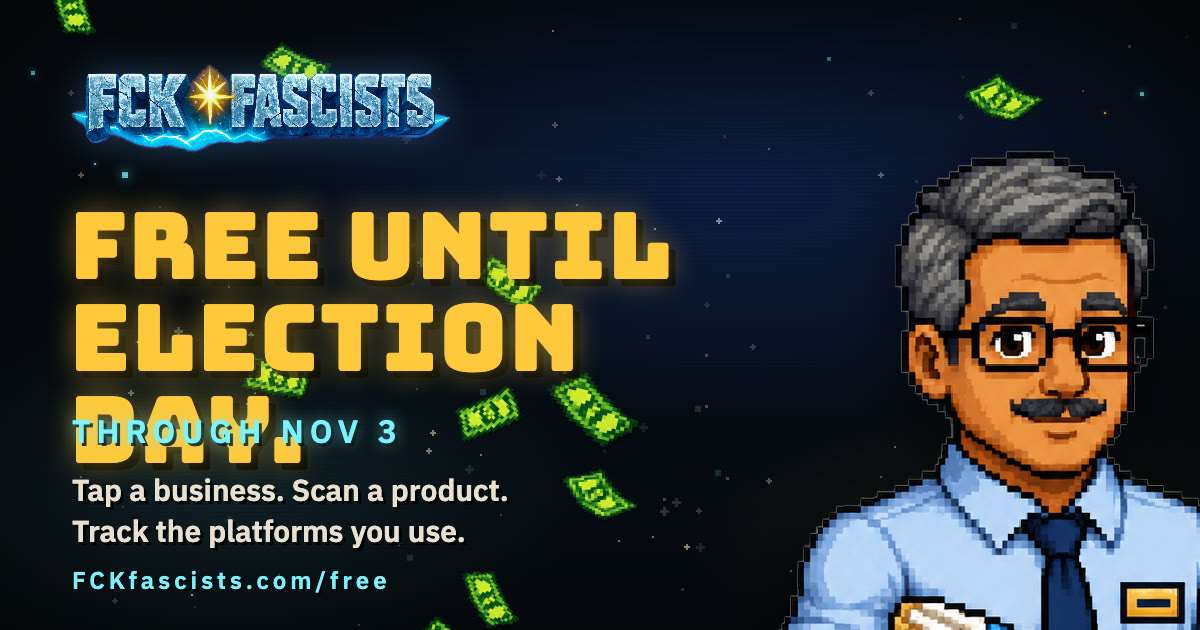
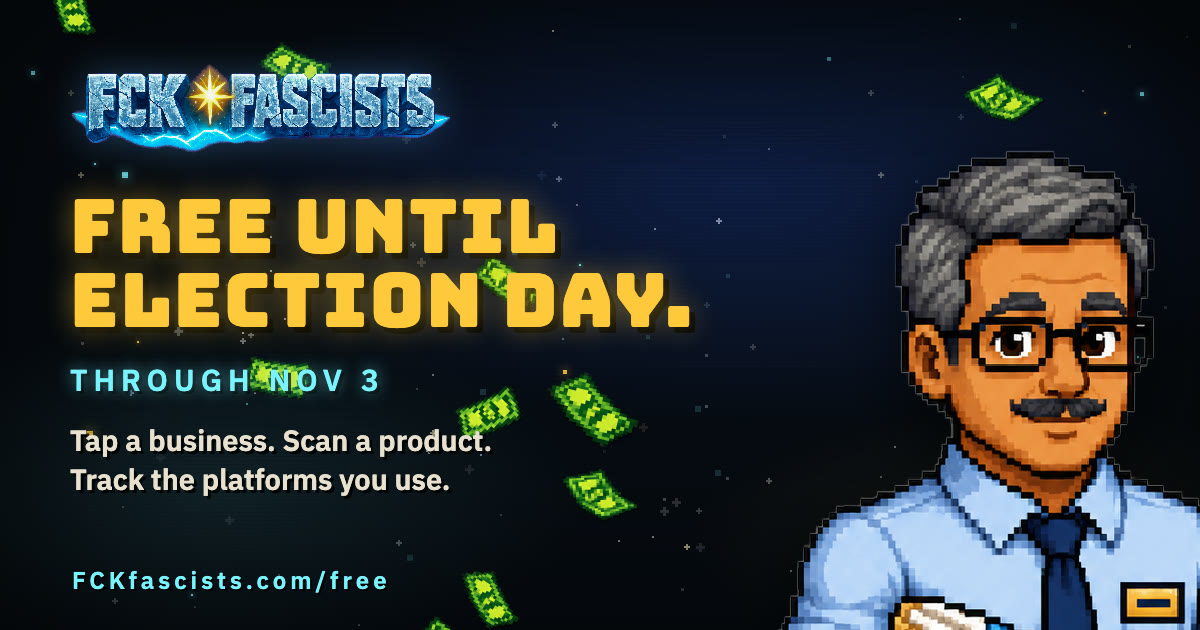
fix(site): /free share image — headline on two lines, column flows

Changed region(s): [[0.0308, 0.3016, 0.5858, 0.8746]]

diff --git a/marketing/video/remotion/src/promo/FreeShare.tsx b/marketing/video/remotion/src/promo/FreeShare.tsx
@@ -22,14 +22,17 @@ export const FreeShare: React.FC = () => {
         </Sequence>
         <Img src={CLARK_BUST} style={{ position: 'absolute', left: 760, top: 150, width: 520, imageRendering: 'pixelated', filter: 'drop-shadow(0 16px 32px rgba(0,0,0,0.6))' }} />
         <Img src={LOGO_H} style={{ position: 'absolute', left: 70, top: 60, width: 380, imageRendering: 'pixelated', filter: 'drop-shadow(0 0 18px rgba(95,174,255,0.35))' }} />
-        <div style={{ position: 'absolute', left: 70, top: 200, width: 700, fontFamily: FONT.display, fontSize: 92, lineHeight: 1.0, letterSpacing: 2, color: T.gold, whiteSpace: 'pre-line', textShadow: '0 0 30px rgba(255,201,60,0.45), 7px 7px 0 rgba(0,0,0,0.8)' }}>
-          {'FREE UNTIL\nELECTION DAY.'}
-        </div>
-        <div style={{ position: 'absolute', left: 72, top: 410, fontFamily: FONT.body, fontWeight: 600, fontSize: 32, letterSpacing: 6, color: T.cyan, textShadow: '0 0 16px rgba(122,242,255,0.6), 3px 3px 0 rgba(0,0,0,0.85)' }}>
-          THROUGH NOV 3
-        </div>
-        <div style={{ position: 'absolute', left: 72, top: 470, width: 660, fontFamily: FONT.body, fontWeight: 600, fontSize: 30, lineHeight: 1.35, color: T.cream, whiteSpace: 'pre-line', textShadow: '3px 3px 0 rgba(0,0,0,0.85)' }}>
-          {'Tap a business. Scan a product.\nTrack the platforms you use.'}
+        {/* one flowing column so the detail line and the verbs always sit under the headline; 74 px keeps "ELECTION DAY." on one line */}
+        <div style={{ position: 'absolute', left: 70, top: 190, width: 720, display: 'flex', flexDirection: 'column', gap: 22 }}>
+          <div style={{ fontFamily: FONT.display, fontSize: 74, lineHeight: 1.0, letterSpacing: 2, color: T.gold, whiteSpace: 'pre-line', textShadow: '0 0 30px rgba(255,201,60,0.45), 6px 6px 0 rgba(0,0,0,0.8)' }}>
+            {'FREE UNTIL\nELECTION DAY.'}
+          </div>
+          <div style={{ fontFamily: FONT.body, fontWeight: 600, fontSize: 30, letterSpacing: 6, color: T.cyan, textShadow: '0 0 16px rgba(122,242,255,0.6), 3px 3px 0 rgba(0,0,0,0.85)' }}>
+            THROUGH NOV 3
+          </div>
+          <div style={{ fontFamily: FONT.body, fontWeight: 600, fontSize: 29, lineHeight: 1.35, color: T.cream, whiteSpace: 'pre-line', textShadow: '3px 3px 0 rgba(0,0,0,0.85)' }}>
+            {'Tap a business. Scan a product.\nTrack the platforms you use.'}
+          </div>
         </div>
         <div style={{ position: 'absolute', left: 72, bottom: 34, fontFamily: FONT.body, fontWeight: 600, fontSize: 24, letterSpacing: 4, color: T.cyan, textShadow: '2px 2px 0 rgba(0,0,0,0.85)' }}>
           FCKfascists.com/free
